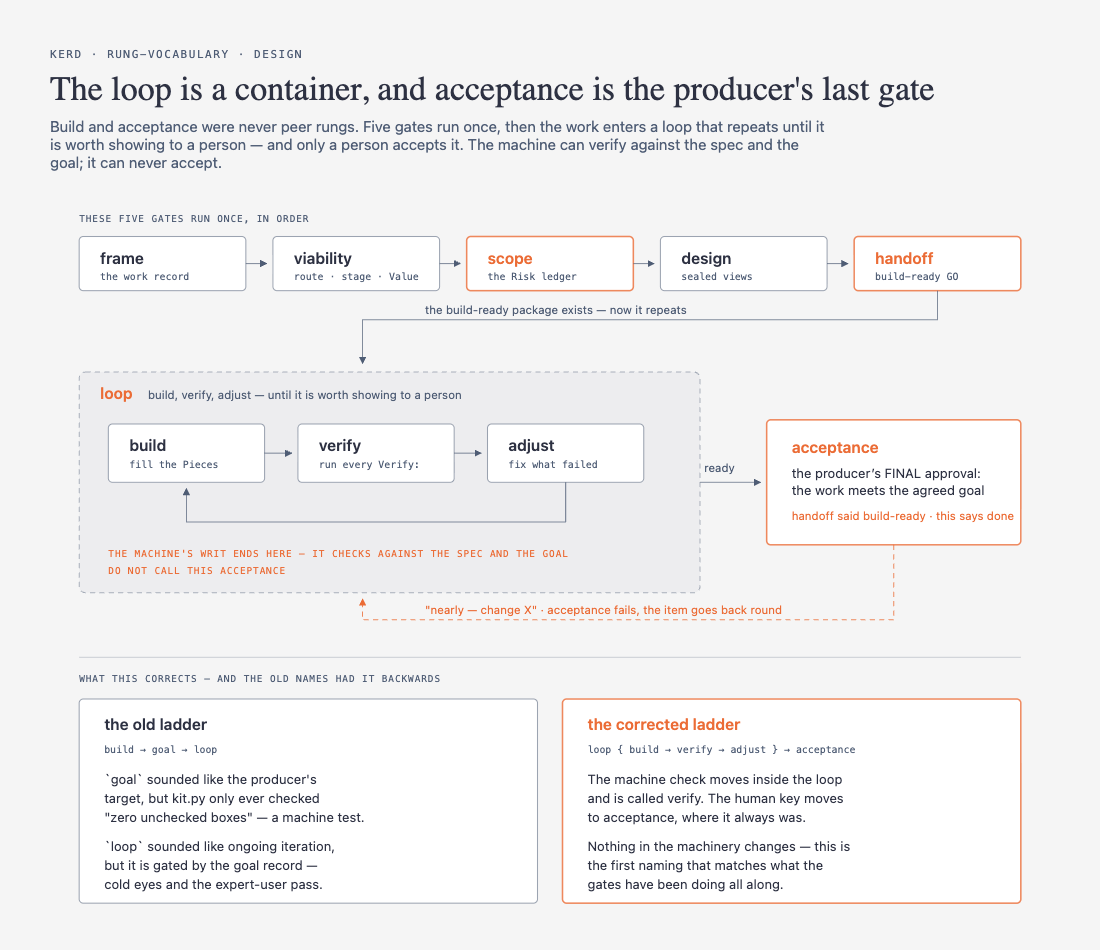
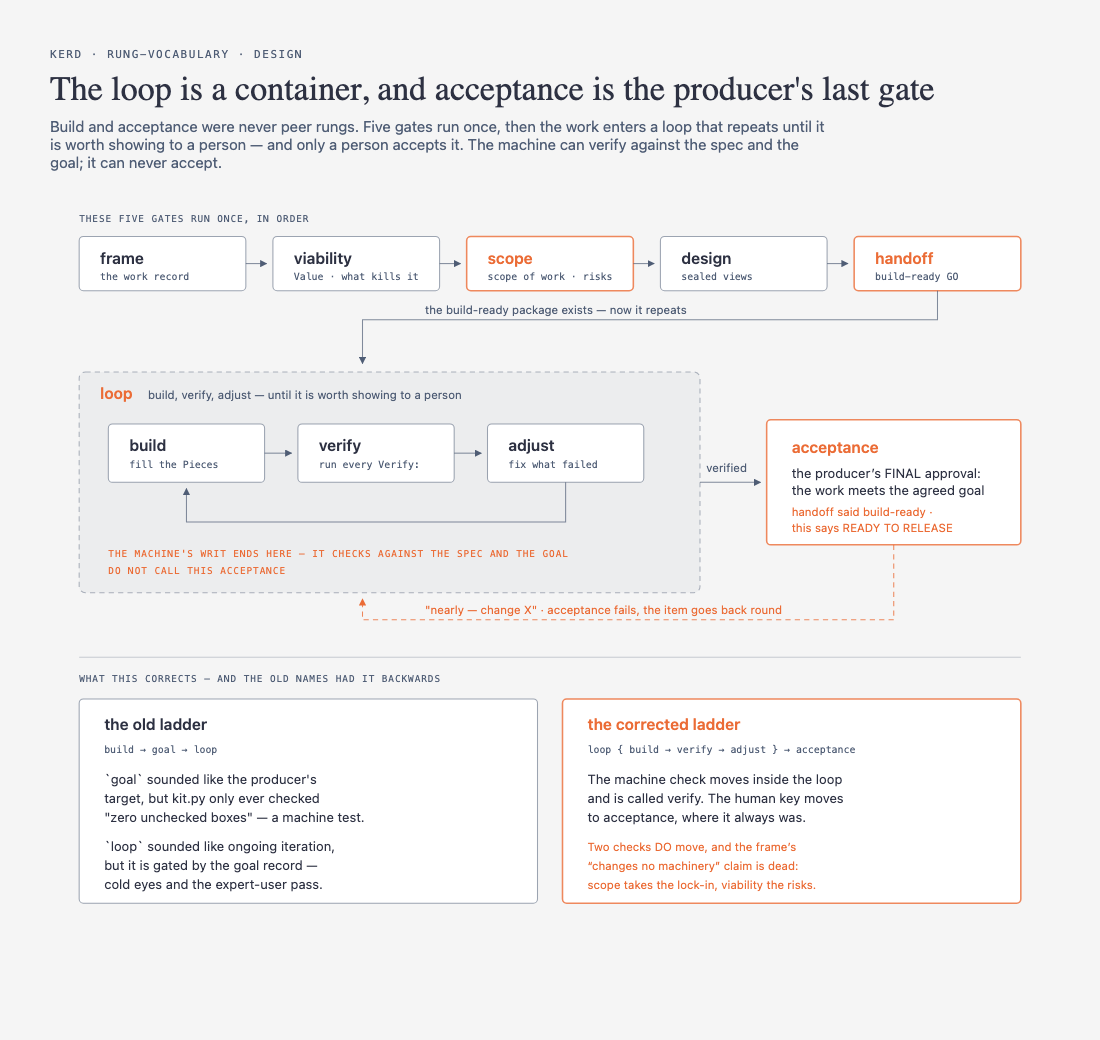
Reseal both views — scope owns the lock-in, and "changes no machinery" is struck
The producer read the sealed ladder and corrected it: "scope, that is not a risk
ledger. its where we lock in what we want, what features etc." kit.py confirms
the mismatch — kit.py:627 gates scope on "## Risk ledger" while kit.py:643 gates
DESIGN on "## Release slice", so the machine checks risk where scope belongs and
checks the commitment one rung late.

"## Release slice" moves up to the scope gate and is renamed "## Scope" (17 work
records carry it). The risk ledger does NOT move — the session's instinct to lift
it to viability was sent to an independent top-tier call to be refuted, and was:
Stage-Gate puts risk assessment in Stage 2 alongside product definition, PRINCE2
creates the Risk Register at initiation alongside the scope, and 29148 carries no
risk section at all, treating risk as a per-requirement attribute. You cannot
qualify the risks of an undefined thing. So risk is checked twice at two depths
in ONE section: viability wants killer risks NAMED, scope wants every row
qualified. Producer's ruling on the viability tier: "yes of course."

The terminal state is READY TO RELEASE, not done — "the work loops after release,
so done means nothing." The literal stage: value stays open for design, which is
the edit the producer required before approving: the drawing had over-committed
to "ready-to-release" while the frame still records that value as unsettled.

Four factual errors found auditing the drawing against kit.py and fixed:
[…]

diff --git a/docs/design/rung-vocabulary/rungs-and-artifacts.html b/docs/design/rung-vocabulary/rungs-and-artifacts.html
@@ -19,10 +19,10 @@
   <div class="wrap">
     <p class="eyebrow">Kerd · rung-vocabulary · design</p>
     <h1>Every gate, what it checks, and where the rename bites</h1>
-    <p class="sub">The ladder is cumulative — a gate checks everything the gates above it checked, plus one new thing. Nothing is ever released. Seven gates, not eight: <em>loop</em> is a container holding build, verify and adjust, and the machine checks only at its two edges. The three renamed words cost wildly different amounts.</p>
-    <svg viewBox="0 0 960 745" role="img" aria-labelledby="rv-t rv-d">
+    <p class="sub">The ladder is cumulative — a gate checks everything the gates above it checked, plus one new thing. No check is ever dropped. Seven gates, not eight: <em>loop</em> is a container holding build, verify and adjust, and the machine checks only at its two edges. Risk is checked twice at two depths, and scope is where the work is locked in. The three renamed words cost wildly different amounts.</p>
+    <svg viewBox="0 0 960 806" role="img" aria-labelledby="rv-t rv-d">
       <title id="rv-t">The seven gates, what each checks, and the cost of the three renamed words</title>
-      <desc id="rv-d">A table of the seven ladder gates read top to bottom: frame, viability, scope (renamed from slice), design, handoff (renamed from contract), loop, and acceptance (which takes over the human key that used to sit at loop). A running count on the left shows how many checks are in force, growing from zero at frame to thirteen at acceptance. The middle column names what that gate checks; the right column names the file on disk that holds it. The loop row is taller because the machine checks at two edges rather than one: entering requires a spec with a Pieces checklist and a Verify command on every step, and leaving requires zero unchecked pieces. Build, verify and adjust happen inside the loop and are deliberately not gates. Below, three panels compare the cost of the three renamed words. Slice to scope costs seventeen files plus a parser key, because the heading Release slice is read by the gate machinery. Contract to handoff costs no rewritten history, because no gate record was ever written at that gate, but the word still sits in the parser three times and in a flow diagram. Goal is folded away entirely: its machine check moves into the loop and its record becomes acceptance's. New gate records are written with the acceptance name; the seven existing goal records are never rewritten and stay readable as read-only aliases.</desc>
+      <desc id="rv-d">A table of the seven ladder gates read top to bottom: frame, viability, scope (renamed from slice), design, handoff (renamed from contract), loop, and acceptance (which takes over the human key that used to sit at loop). A running count on the left shows how many checks are in force, growing from zero at frame to fourteen at acceptance, counted for a work item declaring one concern. The middle column names what that gate checks; the right column names the file on disk that holds it. Risk appears at two gates and at two depths: viability requires only that killer risks are named, while scope requires every row of the ledger to be fully qualified. Scope is also where the work is locked in — what is in, what is out, and the rigor level — in a section renamed from Release slice to Scope, which moves up from the design gate. Design is left checking only that every declared concern has a sealed view. The loop row is taller because the machine checks at two edges rather than one: entering requires a spec with a Pieces checklist and a Verify command on every step, and leaving requires zero unchecked pieces. Build, verify and adjust happen inside the loop and are deliberately not gates. Below, three panels compare the cost of the three renamed words. Slice to scope costs seventeen files plus three parser keys — the rung list, the stage value sliced, and the gate-record regex — and the section itself is both renamed and moved to an earlier gate. Contract to handoff costs no rewritten history, because no gate record was ever written at that gate, but the word still sits in the parser three times and in a flow diagram. Goal is folded away entirely: its machine check moves into the loop and its record becomes acceptance's. New gate records are written with the acceptance name; the seven existing goal records are never rewritten and stay readable as read-only aliases. The stage list also loses the value done; its replacement is deliberately left for the design gate to settle, so no new stage value is claimed here.</desc>
       <defs>
         <style>
           .n{font-family:var(--font-sans);font-size:12.5px;fill:var(--color-ink);}
@@ -58,103 +58,108 @@
       <text class="mono" x="620" y="86">docs/product/&lt;slug&gt;.md</text>
 
       <!-- viability -->
-      <rect class="row" x="150" y="112" width="782" height="52" rx="3"/>
-      <rect class="tally" x="28" y="134" width="12" height="8" rx="2"/>
-      <text class="cnt"  x="122" y="144" text-anchor="end">3</text>
+      <rect class="row" x="150" y="112" width="782" height="76" rx="3"/>
+      <rect class="tally" x="28" y="146" width="16" height="8" rx="2"/>
+      <text class="cnt"  x="122" y="156" text-anchor="end">4</text>
       <text class="b"    x="170" y="138">viability</text>
       <text class="n"    x="316" y="136">front matter route + stage</text>
-      <text class="n"    x="316" y="152">a Value section, in units</text>
-      <text class="mono" x="620" y="142">the same file</text>
+      <text class="n"    x="316" y="152">a Value section exists (not its content)</text>
+      <text class="n"    x="316" y="168">what could kill this — named only</text>
+      <text class="ea" x="546" y="168">new</text>
+      <text class="mono" x="620" y="136">the same file</text>
+      <text class="mono" x="620" y="152">the same file — rows only, unqualified</text>
 
       <!-- scope -->
-      <rect class="rowa" x="150" y="168" width="782" height="52" rx="3"/>
-      <rect class="tally" x="28" y="190" width="17" height="8" rx="2"/>
-      <text class="cnt"  x="122" y="200" text-anchor="end">4</text>
-      <text class="ba"   x="170" y="190">scope</text>
-      <text class="ma"   x="170" y="206">was slice</text>
-      <text class="n"    x="316" y="192">a Risk ledger — every row qualified,</text>
-      <text class="n"    x="316" y="208">sized, evidenced, in exactly one state</text>
-      <text class="mono" x="620" y="192">the same file, in a section</text>
-      <text class="mono" x="620" y="208">named "## Risk ledger"</text>
+      <rect class="rowa" x="150" y="192" width="782" height="76" rx="3"/>
+      <rect class="tally" x="28" y="226" width="28" height="8" rx="2"/>
+      <text class="cnt"  x="122" y="236" text-anchor="end">7</text>
+      <text class="ba"    x="170" y="218">scope</text>
+      <text class="ma"   x="170" y="234">was slice</text>
+      <text class="n"    x="316" y="216">the scope of work — what is in,</text>
+      <text class="ea" x="530" y="216">moved</text>
+      <text class="n"    x="316" y="232">what is out, and the rigor level</text>
+      <text class="n"    x="316" y="248">every risk sized, evidenced, in one state</text>
+      <text class="monoa" x="620" y="216">docs/product/&lt;slug&gt;.md — "## Scope"</text>
+      <text class="mono" x="620" y="232">the same file — "## Risk ledger"</text>
+      <text class="ea" x="620" y="252">same section — now read strictly</text>
 
       <!-- design -->
-      <rect class="row" x="150" y="224" width="782" height="52" rx="3"/>
-      <rect class="tally" x="28" y="246" width="25" height="8" rx="2"/>
-      <text class="cnt"  x="122" y="256" text-anchor="end">6</text>
-      <text class="b"    x="170" y="250">design</text>
-      <text class="n"    x="316" y="248">a Release slice with a rigor level,</text>
-      <text class="n"    x="316" y="264">one sealed view per declared concern</text>
-      <text class="monoa" x="620" y="248">docs/product/&lt;slug&gt;.md — "## Release slice"</text>
-      <text class="mono"  x="620" y="264">docs/design/&lt;slug&gt;/*.html</text>
+      <rect class="row" x="150" y="272" width="782" height="52" rx="3"/>
+      <rect class="tally" x="28" y="294" width="32" height="8" rx="2"/>
+      <text class="cnt"  x="122" y="304" text-anchor="end">8</text>
+      <text class="b"    x="170" y="298">design</text>
+      <text class="n"    x="316" y="296">one sealed view per declared</text>
+      <text class="n"    x="316" y="312">concern — nothing else</text>
+      <text class="mono" x="620" y="302">docs/design/&lt;slug&gt;/*.html</text>
 
       <!-- handoff -->
-      <rect class="rowa" x="150" y="280" width="782" height="52" rx="3"/>
-      <rect class="tally" x="28" y="302" width="33" height="8" rx="2"/>
-      <text class="cnt"  x="122" y="312" text-anchor="end">8</text>
-      <text class="ba"   x="170" y="302">handoff</text>
-      <text class="ma"   x="170" y="318">was contract</text>
-      <text class="n"    x="316" y="304">the design package, and the</text>
-      <text class="n"    x="316" y="320">producer's build-ready GO</text>
-      <text class="mono" x="620" y="304">docs/design/&lt;slug&gt;.md</text>
-      <text class="mono" x="620" y="320">docs/gates/&lt;date&gt;-&lt;slug&gt;-design.md</text>
+      <rect class="rowa" x="150" y="328" width="782" height="52" rx="3"/>
+      <rect class="tally" x="28" y="350" width="40" height="8" rx="2"/>
+      <text class="cnt"  x="122" y="360" text-anchor="end">10</text>
+      <text class="ba"    x="170" y="354">handoff</text>
+      <text class="ma"   x="170" y="370">was contract</text>
+      <text class="n"    x="316" y="352">the design package, and the</text>
+      <text class="n"    x="316" y="368">producer's build-ready GO</text>
+      <text class="mono" x="620" y="352">docs/design/&lt;slug&gt;.md</text>
+      <text class="mono" x="620" y="368">docs/gates/&lt;date&gt;-&lt;slug&gt;-design.md</text>
 
-      <!-- loop (container, two gated edges) -->
-      <rect class="rowa" x="150" y="336" width="782" height="76" rx="3"/>
-      <rect class="tally" x="28" y="370" width="50" height="8" rx="2"/>
-      <text class="cnt"  x="122" y="380" text-anchor="end">11&#8594;12</text>
-      <text class="ba"   x="170" y="362">loop</text>
-      <text class="ma"   x="170" y="378">was build + goal</text>
-      <text class="ma"   x="170" y="394">now a container</text>
-      <text class="n"    x="316" y="360">enter: a spec with a Pieces checklist</text>
-      <text class="n"    x="316" y="376">and a Verify: on every step</text>
-      <text class="n"    x="316" y="392">exit: zero unchecked pieces remain</text>
-      <text class="mono" x="620" y="360">docs/plans/&lt;date&gt;-&lt;slug&gt;-spec.md</text>
-      <text class="ea"   x="620" y="382">build · verify · adjust run INSIDE</text>
-      <text class="ea"   x="620" y="398">only the two edges are gated</text>
+      <!-- loop -->
+      <rect class="rowa" x="150" y="384" width="782" height="76" rx="3"/>
+      <rect class="tally" x="28" y="418" width="52" height="8" rx="2"/>
+      <text class="cnt"  x="122" y="428" text-anchor="end">12&#8594;13</text>
+      <text class="ba"    x="170" y="410">loop</text>
+      <text class="ma"   x="170" y="426">was build + goal</text>
+      <text class="ma"   x="170" y="442">now a container</text>
+      <text class="n"    x="316" y="408">enter: a spec with a Pieces checklist</text>
+      <text class="n"    x="316" y="424">and a Verify: on every step</text>
+      <text class="n"    x="316" y="440">exit: zero unchecked pieces remain</text>
+      <text class="mono" x="620" y="408">docs/plans/&lt;date&gt;-&lt;slug&gt;-spec.md</text>
+      <text class="ea" x="620" y="430">build · verify · adjust run INSIDE</text>
+      <text class="ea" x="620" y="452">only the two edges are gated</text>
 
       <!-- acceptance -->
-      <rect class="rowa" x="150" y="418" width="782" height="52" rx="3"/>
-      <rect class="tally" x="28" y="440" width="54" height="8" rx="2"/>
-      <text class="cnt"  x="122" y="450" text-anchor="end">13</text>
-      <text class="ba"   x="170" y="440">acceptance</text>
-      <text class="ma"   x="170" y="456">was loop's human key</text>
-      <text class="n"    x="316" y="444">the producer's final approval — the</text>
-      <text class="m"    x="316" y="460">one check no machine can ever make</text>
-      <text class="monoa" x="620" y="444">docs/gates/&lt;date&gt;-&lt;slug&gt;-acceptance.md</text>
-      <text class="m"    x="620" y="462">7 old -goal.md records stay readable, never rewritten</text>
-
-      <text class="e" x="28" y="496">the ladder is cumulative — nothing is ever released, only added to</text>
+      <rect class="rowa" x="150" y="464" width="782" height="52" rx="3"/>
+      <rect class="tally" x="28" y="486" width="56" height="8" rx="2"/>
+      <text class="cnt"  x="122" y="496" text-anchor="end">14</text>
+      <text class="ba"    x="170" y="490">acceptance</text>
+      <text class="ma"   x="170" y="506">was loop's human key</text>
+      <text class="n"    x="316" y="488">the producer's final approval, in a record</text>
+      <text class="n"    x="316" y="504">carrying a "## Done condition" section</text>
+      <text class="monoa" x="620" y="488">docs/gates/&lt;date&gt;-&lt;slug&gt;-acceptance.md</text>
+      <text class="m" x="620" y="504">7 old -goal.md records stay readable, never rewritten</text>
+      <text class="e" x="28" y="536">the ladder is cumulative — no check is ever dropped, only added to</text>
+      <text class="m" x="28" y="554">Counts assume a work item declaring one concern. NEW = a check that does not exist today · MOVED = a check that exists, at a different gate.</text>
 
       <!-- ===== bottom: the three costs ===== -->
-      <line class="rule" x1="28" y1="520" x2="932" y2="520"/>
-      <text class="e" x="28" y="544">three renamed words · three completely different costs</text>
+      <line class="rule" x1="28" y1="576" x2="932" y2="576"/>
+      <text class="e" x="28" y="600">three renamed words · three completely different costs</text>
 
-      <rect class="panel" x="28" y="560" width="288" height="168" rx="3"/>
-      <text class="ba"   x="48" y="588">slice → scope</text>
-      <text class="m"    x="48" y="608">the expensive one</text>
-      <text class="n"    x="48" y="634">17 files, plus a parser key.</text>
-      <text class="n"    x="48" y="652">"## Release slice" is a heading</text>
-      <text class="n"    x="48" y="670">the DESIGN gate reads — not the</text>
-      <text class="n"    x="48" y="688">scope gate, whose own section</text>
-      <text class="n"    x="48" y="706">("## Risk ledger") is untouched.</text>
+      <rect class="panel" x="28" y="616" width="288" height="168" rx="3"/>
+      <text class="ba"   x="48" y="644">slice &#8594; scope</text>
+      <text class="m"    x="48" y="664">the expensive one</text>
+      <text class="n"    x="48" y="690">17 files, plus 3 parser keys</text>
+      <text class="n"    x="48" y="708">(RUNGS · STAGES "sliced" · the</text>
+      <text class="n"    x="48" y="726">record regex). The section</text>
+      <text class="n"    x="48" y="744">"## Release slice" is renamed</text>
+      <text class="n"    x="48" y="762">"## Scope" — and moves a gate.</text>
 
-      <rect class="panel" x="336" y="560" width="288" height="168" rx="3"/>
-      <text class="ba"   x="356" y="588">contract → handoff</text>
-      <text class="m"    x="356" y="608">the cheap one — but not free</text>
-      <text class="n"    x="356" y="634">No gate record was ever written</text>
-      <text class="n"    x="356" y="652">here, so no history is rewritten.</text>
-      <text class="n"    x="356" y="670">But the word sits in the parser</text>
-      <text class="n"    x="356" y="688">3× (RUNGS · STAGES "contracted"</text>
-      <text class="n"    x="356" y="706">· the record regex), + a diagram.</text>
+      <rect class="panel" x="336" y="616" width="288" height="168" rx="3"/>
+      <text class="ba"   x="356" y="644">contract &#8594; handoff</text>
+      <text class="m"    x="356" y="664">cheap in history, not in code</text>
+      <text class="n"    x="356" y="690">No gate record was ever written</text>
+      <text class="n"    x="356" y="708">here — no history is rewritten.</text>
+      <text class="n"    x="356" y="726">But: 3 parser keys, a generator</text>
+      <text class="n"    x="356" y="744">FILENAME (gen_flow_contract.py),</text>
+      <text class="n"    x="356" y="762">a rung key in 3 more, + renders.</text>
 
-      <rect class="panel" x="644" y="560" width="288" height="168" rx="3"/>
-      <text class="ba"   x="664" y="588">goal → folded away</text>
-      <text class="m"    x="664" y="608">the one that cannot be undone</text>
-      <text class="n"    x="664" y="634">Its machine check moves into</text>
-      <text class="n"    x="664" y="652">the loop; its record becomes</text>
-      <text class="n"    x="664" y="670">acceptance&#8217;s — new records are</text>
-      <text class="n"    x="664" y="688">written -acceptance.md. The 7</text>
-      <text class="n"    x="664" y="706">old ones stay readable, forever.</text>
+      <rect class="panel" x="644" y="616" width="288" height="168" rx="3"/>
+      <text class="ba"   x="664" y="644">goal &#8594; folded away</text>
+      <text class="m"    x="664" y="664">the one that cannot be undone</text>
+      <text class="n"    x="664" y="690">Machine check moves into the</text>
+      <text class="n"    x="664" y="708">loop. New records are written</text>
+      <text class="n"    x="664" y="726">-acceptance.md; 7 old -goal.md</text>
+      <text class="n"    x="664" y="744">stay readable forever. STAGES</text>
+      <text class="n"    x="664" y="762">drops "done"; value set at design.</text>
     </svg>
   </div>
 </body>

diff --git a/docs/design/rung-vocabulary/the-ladder.html b/docs/design/rung-vocabulary/the-ladder.html
@@ -22,7 +22,7 @@
     <p class="sub">Build and acceptance were never peer rungs. Five gates run once, then the work enters a loop that repeats until it is worth showing to a person — and only a person accepts it. The machine can verify against the spec and the goal; it can never accept.</p>
     <svg viewBox="0 0 960 706" role="img" aria-labelledby="lv-t lv-d">
       <title id="lv-t">Five linear rungs, then a repeating loop, then the producer's acceptance gate</title>
-      <desc id="lv-d">Across the top, five gates run once in sequence: frame, viability, scope, design, handoff, each with the artifact it produces named beneath it. After handoff a connector drops down into a large container labelled loop. Inside the loop, three boxes cycle: build, then verify, then adjust, with an arrow returning from adjust to build. The verify box is explicitly the machine check against the spec and the goal, and is deliberately not called acceptance. An arrow leaves the loop to the right into a separate box labelled acceptance, marked as the producer's final approval. The producer also holds a key at handoff, but that one says the package is build-ready; acceptance says the work is done. A dashed arrow returns from acceptance back into the loop, labelled nearly, change X, showing that a failed acceptance sends the work back round rather than ending it. At the bottom, a strip compares the old naming with the new: the old ladder called the machine check goal and gated the human key at loop, which is backwards; the new naming puts the machine check inside the loop as verify and the human key at acceptance.</desc>
+      <desc id="lv-d">Across the top, five gates run once in sequence: frame, viability, scope, design, handoff, each with the artifact it produces named beneath it. Risk appears at two of them at two depths: viability needs killer risks only named, scope needs every ledger row fully qualified, alongside the Scope section that locks in what is in, what is out and the rigor level. After handoff a connector drops down into a large container labelled loop. Inside the loop, three boxes cycle: build, then verify, then adjust, with an arrow returning from adjust to build. The verify box is explicitly the machine check against the spec and the goal, and is deliberately not called acceptance. An arrow labelled verified leaves the loop to the right into a separate box labelled acceptance, marked as the producer's final approval. The producer also holds a key at handoff, but that one says the package is build-ready; acceptance says the work is ready to release. Nothing is ever called done: the work loops after release, so the terminal state names what is true rather than declaring an ending. A dashed arrow returns from acceptance back into the loop, labelled nearly, change X, showing that a failed acceptance sends the work back round rather than ending it. At the bottom, a strip compares the old naming with the new: the old ladder called the machine check goal and gated the human key at loop, which is backwards; the new naming puts the machine check inside the loop as verify and the human key at acceptance. The strip also records that two checks genuinely move, so the earlier claim that this restructure changed no machinery no longer holds: the lock-in of what is being built moves from design to scope, and viability begins requiring that killer risks are named.</desc>
       <defs>
         <marker id="ar" viewBox="0 0 10 10" refX="9" refY="5" markerWidth="7" markerHeight="7" orient="auto-start-reverse"><path d="M 0 0 L 10 5 L 0 10 z" fill="#4f5d75"/></marker>
         <marker id="ara" viewBox="0 0 10 10" refX="9" refY="5" markerWidth="7" markerHeight="7" orient="auto-start-reverse"><path d="M 0 0 L 10 5 L 0 10 z" fill="#eb6c36"/></marker>
@@ -53,11 +53,11 @@
 
       <rect class="box" x="214" y="36" width="160" height="52" rx="4"/>
       <text class="b"    x="234" y="62">viability</text>
-      <text class="mono" x="234" y="78">route · stage · Value</text>
+      <text class="mono" x="234" y="78">Value · what kills it</text>
 
       <rect class="boxa" x="400" y="36" width="160" height="52" rx="4"/>
       <text class="ba"   x="420" y="62">scope</text>
-      <text class="mono" x="420" y="78">the Risk ledger</text>
+      <text class="mono" x="420" y="78">scope of work · risks</text>
 
       <rect class="box" x="586" y="36" width="160" height="52" rx="4"/>
       <text class="b"    x="606" y="62">design</text>
@@ -105,10 +105,11 @@
       <text class="ba"   x="712" y="244">acceptance</text>
       <text class="n"    x="712" y="268">the producer’s FINAL approval:</text>
       <text class="n"    x="712" y="284">the work meets the agreed goal</text>
-      <text class="ma"   x="712" y="308">handoff said build-ready · this says done</text>
+      <text class="ma"   x="712" y="304">handoff said build-ready ·</text>
+      <text class="ma"   x="712" y="320">this says READY TO RELEASE</text>
 
       <path class="edge" d="M 624 272 L 682 272" marker-end="url(#ar)"/>
-      <text class="m" x="628" y="262">ready</text>
+      <text class="m" x="630" y="262">verified</text>
 
       <path class="edgea" d="M 810 332 L 810 404 L 300 404 L 300 384" marker-end="url(#ara)"/>
       <text class="ma" x="360" y="398">"nearly — change X" · acceptance fails, the item goes back round</text>
@@ -133,9 +134,9 @@
       <text class="n"    x="516" y="562">The machine check moves inside the loop</text>
       <text class="n"    x="516" y="580">and is called verify. The human key moves</text>
       <text class="n"    x="516" y="598">to acceptance, where it always was.</text>
-      <text class="n"    x="516" y="626">Nothing in the machinery changes — this is</text>
-      <text class="n"    x="516" y="644">the first naming that matches what the</text>
-      <text class="n"    x="516" y="662">gates have been doing all along.</text>
+      <text class="ma"   x="516" y="626">Two checks DO move, and the frame&#8217;s</text>
+      <text class="ma"   x="516" y="644">&#8220;changes no machinery&#8221; claim is dead:</text>
+      <text class="ma"   x="516" y="662">scope takes the lock-in, viability the risks.</text>
     </svg>
   </div>
 </body>

diff --git a/docs/product/rung-vocabulary.md b/docs/product/rung-vocabulary.md
@@ -6,11 +6,11 @@ concerns:
   - concern: what each gate checks, and what each renamed word actually costs
     viewpoint: matrix
     view: docs/design/rung-vocabulary/rungs-and-artifacts.html
-    approval: Tony, 2026-08-23 · fp:33b9932399e7
+    approval: Tony, 2026-08-25 · fp:56fb72a4c3c8
   - concern: why loop is a container and acceptance is the producer's last gate
     viewpoint: nested
     view: docs/design/rung-vocabulary/the-ladder.html
-    approval: Tony, 2026-08-23 · fp:a6fe2ec1e1c3
+    approval: Tony, 2026-08-25 · fp:01527c97c762
 ---
 
 # Three rung names only work for software — and drawing the ladder found a fourth defect
@@ -183,8 +183,13 @@ board answers *how far along is the machine*.
 
 ### The old names had the machine check and the human key backwards
 
-**This restructure changes no machinery — it is the first naming that matches
-what the gates already do.** Verified in `tools/gates/kit.py`:
+~~**This restructure changes no machinery — it is the first naming that matches
+what the gates already do.**~~ **STRUCK 2026-08-25 — two checks do move.** The
+claim was true of the `build`/`goal`/`loop` fold below, which is what it was
+written about, and it was then read as covering the whole item. It does not:
+`## Release slice` moves from the design gate to the scope gate, and viability
+gains a check it has never had. See *The gates were also holding the wrong
+things* below. Verified in `tools/gates/kit.py`:
 
 - The old **`goal`** rung requires exactly one thing: *"zero unchecked boxes in
   Pieces"*. A pure machine test. The word sounds like the producer's target and
@@ -194,8 +199,58 @@ what the gates already do.** Verified in `tools/gates/kit.py`:
   actually live. The human key was already there.
 
 So machine-check-then-human-key was already the order. Only the labels were
-inverted. That makes this cheaper than a restructure and better justified than a
-rename.
+inverted — **for this fold**. The fold itself is free; the item is not.
+
+### The gates were also holding the wrong things — 2026-08-25
+
+The producer, reading the sealed drawing: *"scope, that is not a risk ledger.
+its where we lock in what we want, what features etc... that will go into design
+and then loop."*
+
+He is right, and `tools/gates/kit.py` confirms the mismatch. Today `kit.py:627`
+gates the scope rung on `## Risk ledger`, while `kit.py:643` gates the **design**
+rung on `## Release slice` — so the machine checks *risk* where scope belongs and
+checks *what we are committing to build* one rung later.
+
+**`## Release slice` moves up to the scope gate and is renamed `## Scope`.** It
+cannot keep a retired word in its own name. 17 work records carry it.
+
+**The risk ledger does NOT move — and that was tested rather than assumed.** The
+session's instinct was to lift it to viability on the reasoning that *is this
+worth doing* and *what could kill it* are the same question. An independent
+top-tier call was made to refute that, and it did:
+
+- **Stage-Gate** (fetched from `stage-gate.com`, the model owner's own text):
+  Stage 1 Scoping is deliberately cheap desk research; the named **risk
+  assessment sits in Stage 2, Build the Business Case** — the same stage that
+  produces product definition.
+- **PRINCE2** (the non-software test, secondary via `prince2.wiki`): the outline
+  business case carries a *summary* of major risks; the **Risk Register** — the
+  qualified artifact — is created at initiation, alongside the detailed business
+  case and the scope.
+- **ISO/IEC/IEEE 29148** (primary, 2011 edition): requirements specs carry **no
+  risk section at all**. Risk is a per-requirement attribute and part of the
+  "Feasible" well-formedness test — qualification interleaved with defining what
+  you want.
+- **ISO/IEC/IEEE 24748** was reached only as far as its official preview: stage
+  names and order are primary, stage *bodies* are paywalled and taken secondary
+  from SEBoK. Named so the tier is not overstated.
+
+**The argument that killed the instinct:** you cannot qualify the risks of an
+undefined thing. Rows are relative to a commitment, so qualifying before
+scope-lock means every scope change invalidates them. It also inverts gate
+economics — a fully evidenced ledger demanded to pass *is this worth
+investigating* front-loads the exact cost the gate exists to defer.
+
+**So risk is checked twice, at two depths, in ONE section.** Viability requires
+that killer risks are **named** — no sizing, no evidence, cheap. Scope requires
+**every row qualified**. The producer's ruling on adding the viability tier:
+*"yes of course."*
+
+This is the second measured instance of Kerd's viability gate being thinner than
+its counterparts: it checks that a `## Value` section **exists** and nothing
+about its content, while every standard consulted sees named risks at its first
+go/no-go.
 
 `scope` carries the strongest cross-work evidence of the three: *scope of work*
 is standard in construction, consulting and law, not only software. The artifact
@@ -239,7 +294,7 @@ prose rather than machinery, and the two-altitude split it enforces is the one
 | The grounding section cannot cite an external source | no | Law 4 obliges learning from standards, and the section that records what was read refuses every URL — so the reading is recorded in prose the machine cannot check | certain | `gate.py audit` refused both URLs in this file's own grounding on first write, 2026-08-23 | accepted | external sources cited inline in the findings instead; the reference is readable but unchecked | a second item needs external grounding — at which point the format owes a slot |
 | Renaming `goal` breaks 7 immutable gate records | no | history becomes unreadable to the parser, or gets rewritten — and gate records are immutable by contract | certain unless handled | `ls docs/gates/` — 17 records, 10 `design` and 7 `goal`; no other rung has ever been recorded | countermeasure - permanent | the parser keeps the retired names in its legal set forever as read-only aliases; no file on disk is renamed, ever | |
 | `RUNGS` goes from eight entries to seven, and the router walks it | yes | `route()` returns the deepest rung whose cumulative inputs exist; collapsing two rungs into one container changes what every slug reports, including the 20 already on the board | certain | `kit.py:34` defines `RUNGS` as a flat list and `route()` iterates it; the board derives every position from that call | countermeasure - permanent | the two folded checks keep their exact test and only their label changes — old `build`'s spec+Pieces+Verify becomes the loop's entry, old `goal`'s zero-unchecked becomes the loop's exit; no test is added, removed or reordered, so every slug's reported position is unchanged in substance | |
-| Nothing marks an item done once `acceptance` is the last position | no | today the last rung is `loop`, so a finished item reports `enters at: loop` forever; with `acceptance` last the same ambiguity moves rather than resolving | certain | `route()` returns the deepest rung whose inputs exist, and there is no rung beyond the last one to enter | accepted unknown | none yet — it is pre-existing rather than introduced here, but the restructure is the moment to settle it | the design rung |
+| ~~Nothing marks an item done once `acceptance` is the last position~~ **ANSWERED 2026-08-25: the terminal state is READY TO RELEASE, not done** — the producer's ruling, *"not done, but 'ready to release'"*, because the work loops after release so `done` names nothing. The literal `stage:` value stays open for design. | no | today the last rung is `loop`, so a finished item reports `enters at: loop` forever; with `acceptance` last the same ambiguity moves rather than resolving | certain | `route()` returns the deepest rung whose inputs exist, and there is no rung beyond the last one to enter | accepted unknown | none yet — it is pre-existing rather than introduced here, but the restructure is the moment to settle it | the design rung |
 | This is vocabulary churn dressed as work | no | a sitting spent on words while `funnel-driver` sits at contract for a fourth day | medium | the item was raised precisely to block that spec | countermeasure - permanent | the cross-work rule makes it functional rather than cosmetic — Drive's stated premise is non-software work, and three rung names fail for non-software items *today*, before Drive ships and bakes them into every consuming repo | |
 
 ## Why now rather than after Drive ships
